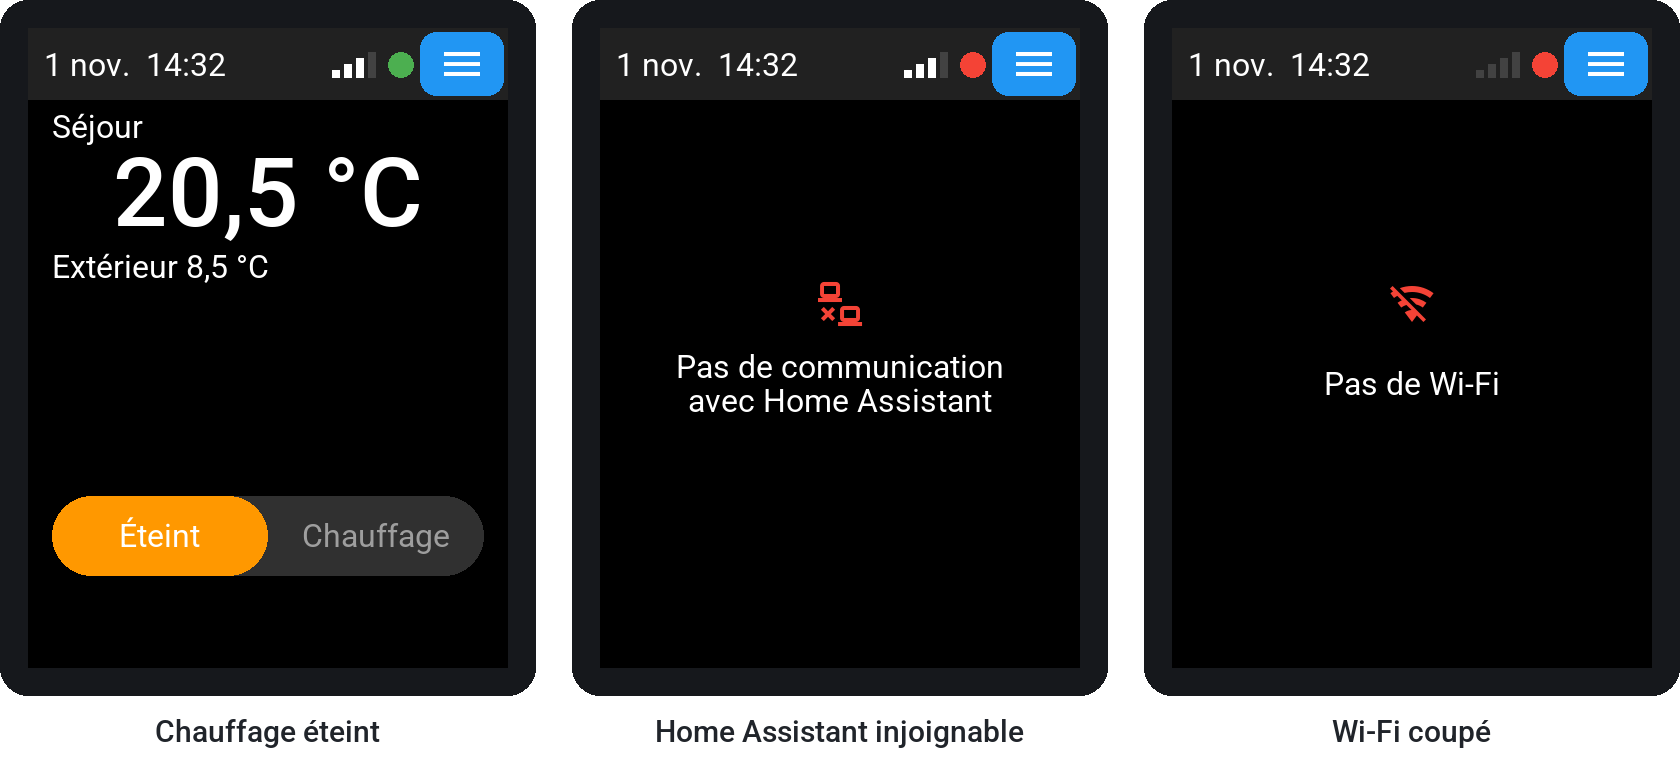
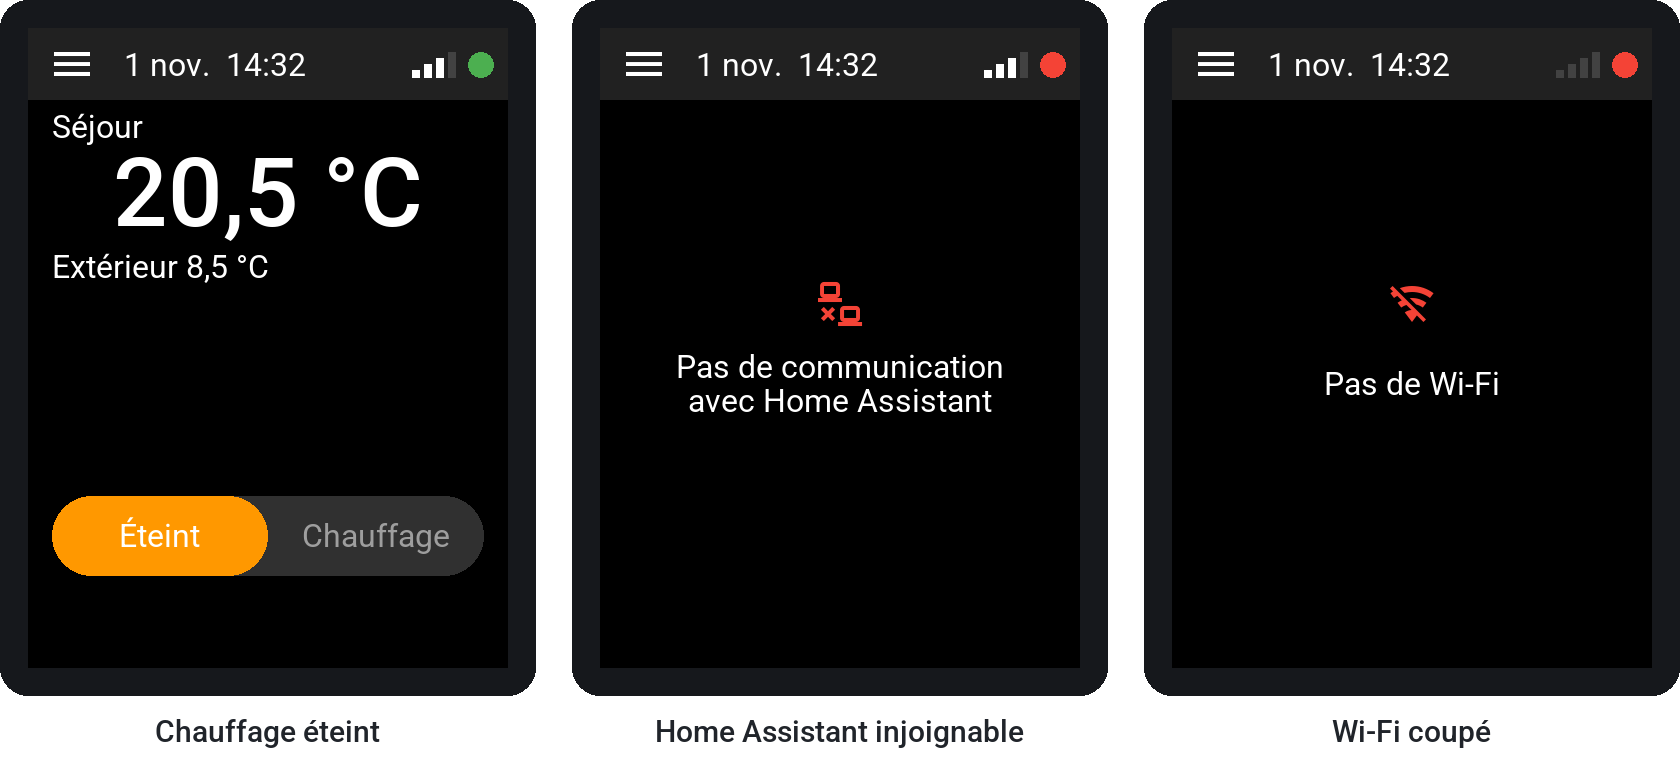
Barre d'etat : bouton Menu a gauche, sans fond bleu (retour du proprietaire, D036)

Changed region(s): [[0.7119, 0.0301, 0.9905, 0.1505], [0.3714, 0.0301, 0.65, 0.1505], [0.031, 0.0301, 0.3095, 0.1505]]

diff --git a/tools/generer_images_doc.py b/tools/generer_images_doc.py
@@ -43,22 +43,21 @@ class Ecran:
     """Ecran de 240 x 320 du module, coordonnees en pixels du module."""
 
     def __init__(self, titre=None, maison=True, menu=True, wifi=True, ha=True, disquette=None):
-        """Barre d'etat en haut (D036) : titre, ou date et heure sur l'accueil (titre None),
-        disquette, Wi-Fi, connexion a HA et bouton Menu, masque sur le menu. En bas,
+        """Barre d'etat en haut (D036) : bouton Menu (masque sur le menu), titre, ou date et
+        heure sur l'accueil (titre None), disquette, Wi-Fi et connexion a HA. En bas,
         maison centree, sans barre sur l'accueil (D025 revisee)."""
         self.image = Image.new("RGB", (240 * S, 320 * S), "#000000")
         self.d = ImageDraw.Draw(self.image)
         self.reperes = []
         self.rect(0, 0, 240, 36, "#212121")
-        self.texte(8, 9, titre if titre else "1 nov.  14:32")
-        if disquette:
-            self.icone("disquette", 136, 18, 24, disquette)
-        for i, (x, y, h) in enumerate([(152, 21, 4), (158, 18, 7), (164, 15, 10), (170, 12, 13)]):
-            self.rect(x, y, 4, h, BLANC if wifi and i < 3 else INACTIF)
-        self.rect(180, 12, 13, 13, VERT if ha else ROUGE, 7)
         if menu:
-            self.bouton(196, 2, 42, 32, BLEU)
-            self.icone("menu", 217, 18, 24)
+            self.icone("menu", 22, 18, 24)
+        self.texte(48, 9, titre if titre else "1 nov.  14:32")
+        if disquette:
+            self.icone("disquette", 172, 18, 24, disquette)
+        for i, (x, y, h) in enumerate([(192, 21, 4), (198, 18, 7), (204, 15, 10), (210, 12, 13)]):
+            self.rect(x, y, 4, h, BLANC if wifi and i < 3 else INACTIF)
+        self.rect(220, 12, 13, 13, VERT if ha else ROUGE, 7)
         if maison:
             self.rect(0, 276, 240, 44, "#212121")
             self.bouton(86, 280, 68, 36, BLEU)
@@ -143,7 +142,7 @@ def accueil():
     e.bouton(172, 182, 56, 44, "#E53935")
     e.texte(200, 204, "+", BLANC, 22, 500, "mm")
     glissiere(e)
-    for numero, x, y in [(1, 120, 18), (2, 217, 44), (3, 226, 70), (4, 180, 118), (5, 232, 154),
+    for numero, x, y in [(1, 150, 18), (2, 42, 32), (3, 226, 70), (4, 180, 118), (5, 232, 154),
                          (6, 76, 204), (7, 120, 284)]:
         e.repere(numero, x, y)
     e.finir("accueil.png")
@@ -216,7 +215,7 @@ def reglages_ecran(alerte=True, impose_alerte=False, disquette=None):
 
 def reglages():
     e = reglages_ecran(disquette=VERT)
-    for numero, x, y in [(1, 140, 59), (2, 140, 96), (3, 140, 159), (4, 150, 196), (5, 112, 18)]:
+    for numero, x, y in [(1, 140, 59), (2, 140, 96), (3, 140, 159), (4, 150, 196), (5, 150, 18)]:
         e.repere(numero, x, y)
     e.finir("reglages.png")
     cote_a_cote([encadrer(reglages_ecran(alerte=False)), encadrer(reglages_ecran(impose_alerte=True))],

diff --git a/docs/codex/02_DECISIONS.md b/docs/codex/02_DECISIONS.md
@@ -776,10 +776,11 @@ qui cite la précédente.
   disquette (D035) passait par-dessus le contenu quand on changeait vite de page.
 - Décision :
   - barre de 36 px en haut de toutes les pages (`top_layer`, `packages/lvgl.yaml`) :
-    à gauche le titre de la page (écrit par son `on_load`), ou la date et l'heure sur
-    l'accueil ; à droite la disquette, le Wi-Fi, le point de connexion à HA (P2 sur
-    toutes les pages, plus seulement l'accueil) et le bouton Menu ☰ (42 × 32 px),
-    masqué sur le Menu ;
+    à gauche le bouton Menu ☰ (40 × 32 px, sans fond, masqué sur le Menu), puis le
+    titre de la page (écrit par son `on_load`), ou la date et l'heure sur l'accueil ;
+    à droite la disquette, le Wi-Fi et le point de connexion à HA (P2 sur toutes les
+    pages, plus seulement l'accueil). Après essai, le ☰ passe de droite à gauche et
+    perd son fond bleu, jugé disgracieux (retour du propriétaire) ;
   - barre du bas réduite au bouton Accueil, centré, 68 px ; masquée sur l'accueil,
     qui gagne 44 px ;
   - contenus des pages sous la barre (y ≥ 38) : titres retirés, tuiles du Menu et

diff --git a/docs/CAHIER_DE_TESTS.md b/docs/CAHIER_DE_TESTS.md
@@ -202,7 +202,7 @@ ensuite l'automatisation du module et l'enregistrer.
 
 | N° | Action | Attendu | Bloque la fusion de | OK / KO |
 |---|---|---|---|---|
-| I1 | Écran d'accueil | En haut : date et heure (« 4 nov.  17:20 »), Wi-Fi, point vert, bouton ☰ à droite. **Pas de barre en bas** | `feature/barre-etat` | |
+| I1 | Écran d'accueil | En haut : bouton ☰ à gauche, sans fond, puis date et heure (« 4 nov.  17:20 ») ; Wi-Fi et point vert à droite. **Pas de barre en bas** | `feature/barre-etat` | |
 | I2 | Toucher brièvement ☰ | Le Menu s'ouvre ; titre « Menu » dans la barre, pas de ☰ ; maison centrée en bas | `feature/barre-etat` | |
 | I3 | Ouvrir chaque tuile du Menu | Titre de la barre = nom de la page (Météo, Planning, Scénarios, Réglages, À propos) ; ☰ présent ; maison en bas | `feature/barre-etat` | |
 | I4 | Toucher la maison | Accueil : la date revient à la place du titre ; la barre du bas disparaît | `feature/barre-etat` | |

diff --git a/docs/UTILISATION.md b/docs/UTILISATION.md
@@ -10,9 +10,9 @@ peut légèrement différer.*
 ## L'essentiel
 
 - **La barre du haut** est présente sur toutes les pages, comme sur un téléphone :
-  le titre de la page (la date et l'heure sur l'accueil), le Wi-Fi, le point de
-  connexion à Home Assistant (vert : relié, rouge : non relié) et le bouton **☰**,
-  qui ouvre le Menu (il n'apparaît pas sur le Menu).
+  à gauche le bouton **☰**, qui ouvre le Menu (il n'apparaît pas sur le Menu), puis le
+  titre de la page (la date et l'heure sur l'accueil) ; à droite le Wi-Fi et le point
+  de connexion à Home Assistant (vert : relié, rouge : non relié).
 - **La maison**, en bas au centre, ramène à l'accueil. L'accueil n'a pas de barre en
   bas.
 - La LED et la luminosité de l'écran se règlent depuis le panneau lui-même :
